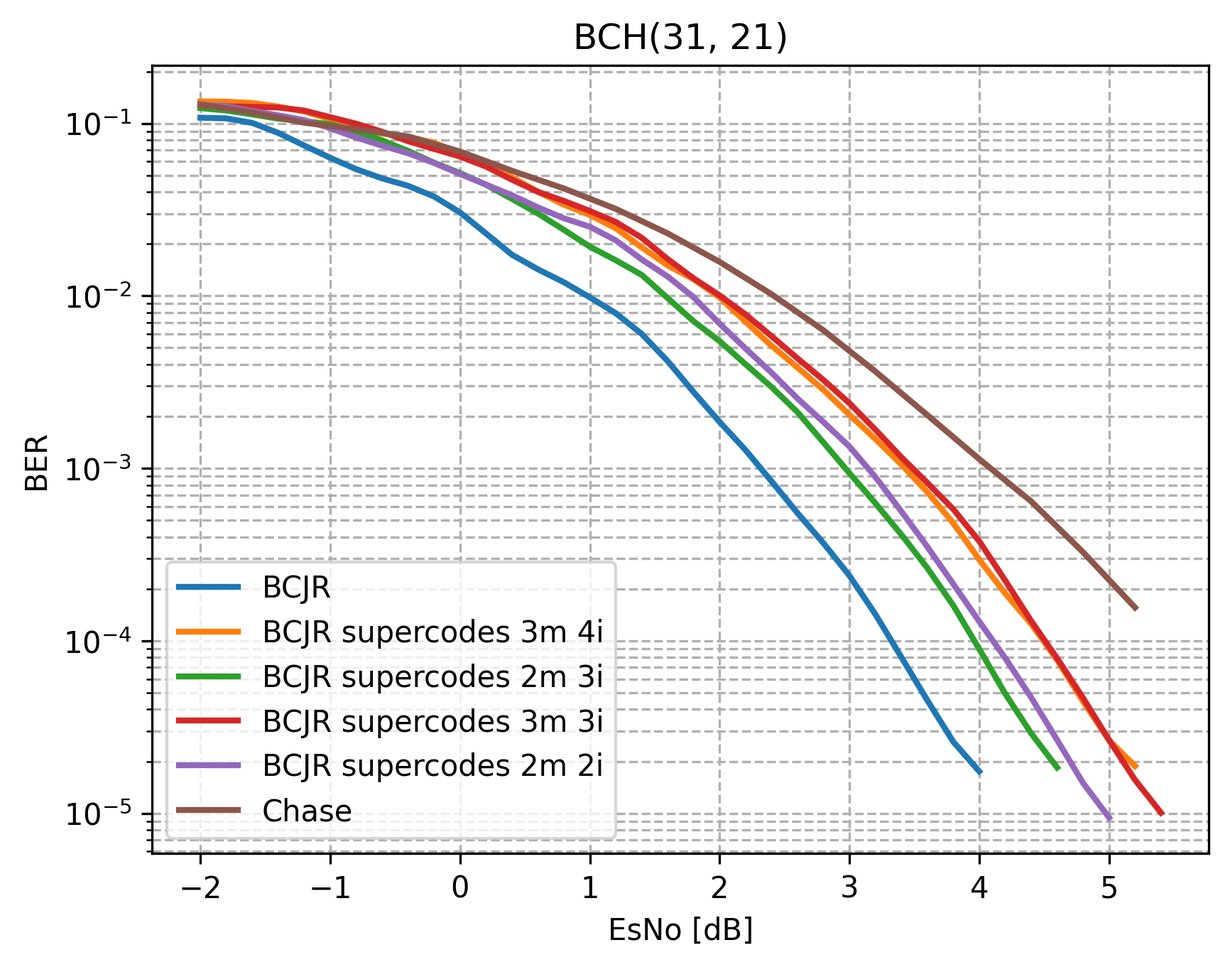
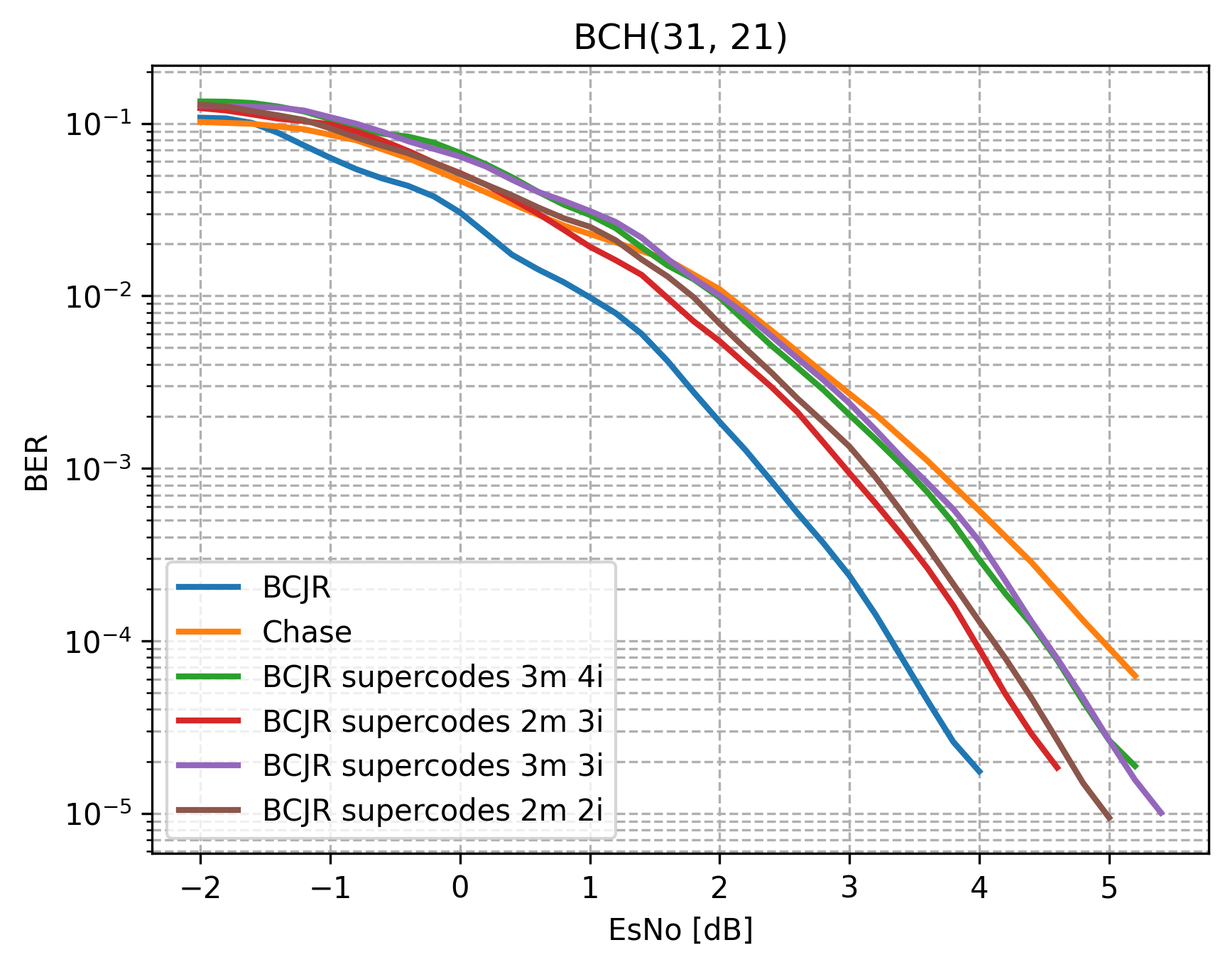
new chase

diff --git a/plot_bch_31_21_complex_compare_5_with_chase.py b/plot_bch_31_21_complex_compare_5_with_chase.py
@@ -4,45 +4,45 @@ from scipy.ndimage import gaussian_filter1d
 esno_bch_31_21 = [-10, -9.8, -9.6, -9.4, -9.2, -9.0, -8.8, -8.6, -8.4, -8.2, -8.0, -7.8, -7.6, -7.4, -7.2, -7.0, -6.8, -6.6, -6.4, -6.2, -6.0, -5.8, -5.6, -5.4, -5.2, -5.0, -4.8, -4.6, -4.4, -4.2, -4.0, -3.8, -3.6, -3.4, -3.2, -3.0, -2.8, -2.6, -2.4, -2.2, -2.0, -1.8, -1.6, -1.4, -1.2, -1.0, -0.8, -0.6, -0.4, -0.2, -0.0, 0.2, 0.4, 0.6, 0.8, 1.0, 1.2, 1.4, 1.6, 1.8, 2, 2.2, 2.4, 2.6, 2.8, 3.0, 3.2, 3.4, 3.6, 3.8, 4.0, 4.2, 4.4, ]
 fer_bch_31_21 = [1.0, 1.0, 1.0, 1.0, 1.0, 1.0, 1.0, 1.0, 1.0, 1.0, 1.0, 1.0, 1.0, 1.0, 1.0, 1.0, 1.0, 1.0, 1.0, 1.0, 1.0, 1.0, 1.0, 1.0, 1.0, 1.0, 1.0, 1.0, 1.0, 1.0, 0.9917355371900827, 0.9917355371900827, 0.9917355371900827, 1.0, 1.0, 0.967741935483871, 0.96, 0.9302325581395349, 0.967741935483871, 0.8888888888888888, 0.821917808219178, 0.7843137254901961, 0.759493670886076, 0.6703910614525139, 0.5429864253393665, 0.46511627906976744, 0.40540540540540543, 0.3418803418803419, 0.32432432432432434, 0.24048096192384769, 0.20761245674740483, 0.1362088535754824, 0.09724473257698542, 0.08836524300441827, 0.07439553626782393, 0.056100981767180924, 0.048484848484848485, 0.03293084522502744, 0.02306805074971165, 0.013211493999779809, 0.009936242444315641, 0.006948465547191662, 0.004155268534229025, 0.0028578913524970827, 0.0019907100199071004, 0.001316049220240837, 0.0006781116849945186, 0.0003866789114988641, 0.00022117817929809104, 0.00011824267732952855, 8.012023376413538e-05, 4.084423675906427e-05, 1.5633409937042026e-05,]
 ber_bch_31_21 = [0.33252688172043016, 0.33413978494623653, 0.3198924731182796, 0.3255376344086021, 0.3086021505376344, 0.3086021505376344, 0.2940860215053763, 0.3126344086021505, 0.2986559139784946, 0.2932795698924731, 0.28440860215053765, 0.28978494623655915, 0.27741935483870966, 0.27177419354838706, 0.2685483870967742, 0.2599462365591398, 0.24408602150537634, 0.26048387096774195, 0.2510752688172043, 0.25564516129032255, 0.24704301075268817, 0.23978494623655913, 0.2336021505376344, 0.2217741935483871, 0.21478494623655914, 0.21263440860215052, 0.2110215053763441, 0.214247311827957, 0.1956989247311828, 0.1814516129032258, 0.1674220207944548, 0.16662223407091442, 0.18075179952012796, 0.16586021505376344, 0.16263440860215053, 0.15634755463059313, 0.14735483870967742, 0.13378344586146537, 0.13605619146722164, 0.12879330943847073, 0.10737958462218294, 0.10963525195024246, 0.10677827684769294, 0.08650207244548568, 0.07312801050941468, 0.061640410102525627, 0.05405405405405406, 0.04438930245381858, 0.047079337401918046, 0.03684788932704118, 0.0317557763143208, 0.021786093515433345, 0.014795838343702619, 0.014751294598318209, 0.012159270443773374, 0.009018383628165105, 0.008563049853372435, 0.005692078892390496, 0.00410512085922288, 0.002319114403724789, 0.001768223789821762, 0.0012477352111623736, 0.0007271719934900792, 0.0005070452399591598, 0.00034623370507524026, 0.00022960106019793096, 0.00011794039252458429, 6.850037706391168e-05, 3.852781187773199e-05, 2.0597111534821102e-05, 1.376258854174261e-05, 6.994026563312887e-06, 2.665604459311313e-06,]
-plt.plot(esno_bch_31_21[40:71], gaussian_filter1d(fer_bch_31_21[40:71], sigma=1), label="BCJR", linewidth=2)
-# plt.plot(esno_bch_31_21[40:71], gaussian_filter1d(ber_bch_31_21[40:71], sigma=1), label="BCJR", linewidth=2)
+# plt.plot(esno_bch_31_21[40:71], gaussian_filter1d(fer_bch_31_21[40:71], sigma=1), label="BCJR", linewidth=2)
+plt.plot(esno_bch_31_21[40:71], gaussian_filter1d(ber_bch_31_21[40:71], sigma=1), label="BCJR", linewidth=2)
 
+esno_bch_31_21_chase = [-8, -7.60000000000000, -7.20000000000000, -6.80000000000000, -6.40000000000000, -6, -5.60000000000000, -5.20000000000000, -4.80000000000000, -4.40000000000000, -4, -3.60000000000000, -3.20000000000000, -2.80000000000000, -2.40000000000000, -2, -1.60000000000000, -1.20000000000000, -0.800000000000000, -0.400000000000000, 0, 0.399999999999999, 0.800000000000000, 1.20000000000000, 1.60000000000000, 2, 2.40000000000000, 2.80000000000000, 3.20000000000000, 3.60000000000000, 4, 4.40000000000000, 4.80000000000000, 5.20000000000000]
+fer_bch_31_21_chase = [1, 1, 1, 1, 1, 0.975609756097561, 0.930232558139535, 1, 0.930232558139535, 0.952380952380952, 0.909090909090909, 0.851063829787234, 0.888888888888889, 0.930232558139535, 0.740740740740741, 0.701754385964912, 0.714285714285714, 0.677966101694915, 0.588235294117647, 0.444444444444444, 0.314960629921260, 0.289855072463768, 0.183486238532110, 0.171673819742489, 0.163934426229508, 0.0902934537246050, 0.0453514739229025, 0.0295202952029520, 0.0175901495162709, 0.00801603206412826, 0.00440480123334435, 0.00255378918470280, 0.000764321473611801, 0.000363240101707229]
+ber_bch_31_21_chase = [0.281451612903226, 0.275806451612903, 0.284677419354839, 0.250806451612903, 0.273387096774194, 0.236034618410700, 0.224306076519130, 0.200806451612903, 0.219804951237809, 0.211213517665131, 0.182551319648094, 0.157172271791352, 0.156989247311828, 0.152288072018005, 0.123655913978495, 0.102433503112620, 0.102534562211982, 0.0945872061235648, 0.0839658444022770, 0.0620071684587814, 0.0426720853441707, 0.0341280972417017, 0.0221959159514649, 0.0199363145507407, 0.0185087255420413, 0.00975751838636860, 0.00490088508521688, 0.00321390310677300, 0.00184412857831872, 0.000853319542310427, 0.000454689159571029, 0.000253319411063262, 7.64321473611801e-05, 3.60310746048299e-05]
+# plt.plot(esno_bch_31_21_chase[15:], gaussian_filter1d(fer_bch_31_21_chase[15:], sigma=1), label="Chase", linewidth=2)
+plt.plot(esno_bch_31_21_chase[15:], gaussian_filter1d(ber_bch_31_21_chase[15:], sigma=1), label="Chase", linewidth=2)
 
 #-----------------------BCH(31,21) supercode----------------------------------------------------------------
 esno_bch_31_21_supercode_3_matrix_4_iter = [-10, -9.8, -9.6, -9.4, -9.2, -9.0, -8.8, -8.6, -8.4, -8.2, -8.0, -7.8, -7.6, -7.4, -7.2, -7.0, -6.8, -6.6, -6.4, -6.2, -6.0, -5.8, -5.6, -5.4, -5.2, -5.0, -4.8, -4.6, -4.4, -4.2, -4.0, -3.8, -3.6, -3.4, -3.2, -3.0, -2.8, -2.6, -2.4, -2.2, -2.0, -1.8, -1.6, -1.4, -1.2, -1.0, -0.8, -0.6, -0.4, -0.2, -0.0, 0.2, 0.4, 0.6, 0.8, 1.0, 1.2, 1.4, 1.6, 1.8, 2.0, 2.2, 2.4, 2.6, 2.8, 3.0, 3.2, 3.4, 3.6, 3.8, 4.0, 4.2, 4.4, 4.6, 4.8, 5.0, 5.2,  ]
 fer_bch_31_21_supercode_3_matrix_4_iter = [1.0, 1.0, 1.0, 1.0, 1.0, 1.0, 1.0, 1.0, 1.0, 1.0, 1.0, 1.0, 1.0, 1.0, 1.0, 1.0, 1.0, 1.0, 1.0, 1.0, 1.0, 1.0, 1.0, 1.0, 1.0, 1.0, 1.0, 1.0, 1.0, 1.0, 1.0, 1.0, 1.0, 1.0, 1.0, 1.0, 1.0, 0.9836065573770492, 0.96, 0.8571428571428571, 0.8275862068965517, 0.759493670886076, 0.7843137254901961, 0.7142857142857143, 0.7142857142857143, 0.6666666666666666, 0.5217391304347826, 0.5357142857142857, 0.5357142857142857, 0.5042016806722689, 0.4444444444444444, 0.40955631399317405, 0.3560830860534125, 0.2733485193621868, 0.2222222222222222, 0.24193548387096775, 0.192, 0.14423076923076922, 0.10909090909090909, 0.11363636363636363, 0.07537688442211055, 0.05188067444876784, 0.04302617425600574, 0.0332409972299169, 0.027353544563483018, 0.015414258188824663, 0.014072944763691803, 0.008251392422471292, 0.00693000693000693, 0.00429000429000429, 0.002230358901919967, 0.0017272897384595454, 0.0012943308309603934, 0.0006684901592677805, 0.0003840626790292176, 0.00023422449246480288, 0.000137670476395576,]
 ber_bch_31_21_supercode_3_matrix_4_iter = [0.32983870967741935, 0.31612903225806455, 0.3131720430107527, 0.31451612903225806, 0.31397849462365596, 0.31962365591397845, 0.31666666666666665, 0.2986559139784946, 0.3, 0.28655913978494624, 0.2887096774193549, 0.2887096774193549, 0.2803763440860215, 0.282258064516129, 0.25725806451612904, 0.2741935483870968, 0.24919354838709676, 0.24623655913978493, 0.24301075268817204, 0.2446236559139785, 0.7583333333333333, 0.7639784946236559, 0.7639784946236559, 0.7704301075268817, 0.7865591397849463, 0.796505376344086, 0.7876344086021505, 0.8051075268817204, 0.7946236559139785, 0.817741935483871, 0.8, 0.8172043010752688, 0.8279569892473119, 0.8301075268817204, 0.8290322580645161, 0.17204301075268816, 0.17204301075268816, 0.14569011105235324, 0.13496774193548386, 0.12027649769585254, 0.13459399332591768, 0.1322988975091874, 0.13725490196078433, 0.12211981566820276, 0.1205837173579109, 0.10949820788530466, 0.08527349228611501, 0.08640552995391705, 0.08683755760368664, 0.0801030089455137, 0.06499402628434886, 0.058901244082351645, 0.04833923614434766, 0.03931221985450804, 0.03106332138590203, 0.031087408949011446, 0.02544516129032258, 0.017951302729528537, 0.01310850439882698, 0.01386852394916911, 0.009604473982817312, 0.0063177272917451155, 0.004985021802241525, 0.0035832365293539453, 0.0029706537644212743, 0.0016781652060413948, 0.0015926639100844755, 0.0009027733107381226, 0.0007321216998636353, 0.00045552464907303616, 0.0002308301551718246, 0.0001764435754340396, 0.0001245619455601669, 6.66693142710609e-05, 3.623817213420843e-05, 2.247799564783189e-05, 1.5134380897136327e-05,]
-plt.plot(esno_bch_31_21_supercode_3_matrix_4_iter[40:], gaussian_filter1d(fer_bch_31_21_supercode_3_matrix_4_iter[40:], sigma=1), label="BCJR supercodes 3m 4i", linewidth=2)
-# plt.plot(esno_bch_31_21_supercode_3_matrix_4_iter[40:], gaussian_filter1d(ber_bch_31_21_supercode_3_matrix_4_iter[40:], sigma=1), label="BCJR supercodes 3m 4i", linewidth=2)
+# plt.plot(esno_bch_31_21_supercode_3_matrix_4_iter[40:], gaussian_filter1d(fer_bch_31_21_supercode_3_matrix_4_iter[40:], sigma=1), label="BCJR supercodes 3m 4i", linewidth=2)
+plt.plot(esno_bch_31_21_supercode_3_matrix_4_iter[40:], gaussian_filter1d(ber_bch_31_21_supercode_3_matrix_4_iter[40:], sigma=1), label="BCJR supercodes 3m 4i", linewidth=2)
 
 esno_bch_31_21_supercode_2_matrix_3_iter = [-10, -9.8, -9.6, -9.4, -9.2, -9.0, -8.8, -8.6, -8.4, -8.2, -8.0, -7.8, -7.6, -7.4, -7.2, -7.0, -6.8, -6.6, -6.4, -6.2, -6.0, -5.8, -5.6, -5.4, -5.2, -5.0, -4.8, -4.6, -4.4, -4.2, -4.0, -3.8, -3.6, -3.4, -3.2, -3.0, -2.8, -2.6, -2.4, -2.2, -2.0, -1.8, -1.6, -1.4, -1.2, -1.0, -0.8, -0.6, -0.4, -0.2, 0.0, 0.2, 0.4, 0.6, 0.8, 1.0, 1.2, 1.4, 1.6, 1.8, 2.0, 2.2, 2.4, 2.6, 2.8, 3.0, 3.2, 3.4, 3.6, 3.8, 4.0, 4.2, 4.4, 4.6, ]
 fer_bch_31_21_supercode_2_matrix_3_iter = [1.0, 1.0, 1.0, 1.0, 1.0, 1.0, 1.0, 1.0, 1.0, 1.0, 1.0, 1.0, 1.0, 1.0, 1.0, 1.0, 1.0, 1.0, 1.0, 1.0, 1.0, 1.0, 1.0, 1.0, 1.0, 1.0, 1.0, 1.0, 1.0, 1.0, 1.0, 1.0, 1.0, 1.0, 1.0, 0.975609756097561, 0.96, 0.9302325581395349, 0.8888888888888888, 0.9375, 0.821917808219178, 0.8, 0.7272727272727273, 0.6349206349206349, 0.6185567010309279, 0.6091370558375635, 0.5042016806722689, 0.45627376425855515, 0.44280442804428044, 0.32697547683923706, 0.3468208092485549, 0.3022670025188917, 0.22727272727272727, 0.20689655172413793, 0.1724137931034483, 0.13872832369942195, 0.12207527975584945, 0.11594202898550725, 0.06289308176100629, 0.060453400503778336, 0.046948356807511735, 0.03051106025934401, 0.026554547466253596, 0.017436791630340016, 0.010643959552953698, 0.008696282339299949, 0.005346878759524128, 0.003554081269991707, 0.0024694914905439057, 0.0014078723529066697, 0.0007721361790841179, 0.0003925738120552875, 0.00030450360836775913, 0.00011577549683969074,]
 ber_bch_31_21_supercode_2_matrix_3_iter = [0.6776881720430108, 0.6889784946236559, 0.6787634408602151, 0.6841397849462365, 0.6841397849462365, 0.6849462365591398, 0.6975806451612903, 0.6860215053763441, 0.6978494623655913, 0.7091397849462365, 0.7225806451612903, 0.7260752688172043, 0.7220430107526882, 0.7266129032258064, 0.7306451612903225, 0.739516129032258, 0.7540322580645161, 0.7443548387096774, 0.7537634408602151, 0.7591397849462366, 0.7647849462365592, 0.7731182795698925, 0.7634408602150538, 0.7811827956989247, 0.7838709677419354, 0.7838709677419354, 0.796236559139785, 0.7981182795698926, 0.8048387096774193, 0.8155913978494624, 0.8077956989247312, 0.814247311827957, 0.8188172043010753, 0.8362903225806452, 0.8352150537634409, 0.19223708366115919, 0.1406451612903226, 0.14453613403350837, 0.13572281959378735, 0.13482862903225806, 0.1254971277065842, 0.11784946236559139, 0.11612903225806451, 0.10087045570916539, 0.10375789823744595, 0.10528901260848207, 0.0867443751694226, 0.08070648840917453, 0.07094393524580407, 0.0542322229058627, 0.053794517993660265, 0.04436499553099862, 0.03457966764418377, 0.03081201334816463, 0.02340563589173155, 0.018124184225247062, 0.01522659403406294, 0.015645940470624904, 0.007455873402312843, 0.007052896725440806, 0.00576758039275077, 0.0033053648614289346, 0.003169413729843171, 0.0019780446419364215, 0.0012561016784265252, 0.0008743036545425217, 0.0005864318639478076, 0.0003754714890071884, 0.0002462853072558572, 0.00014608567962956303, 7.077914974937747e-05, 3.8307605853782085e-05, 2.9959225984569852e-05, 1.0853952828721006e-05, ]
-plt.plot(esno_bch_31_21_supercode_2_matrix_3_iter[40:], gaussian_filter1d(fer_bch_31_21_supercode_2_matrix_3_iter[40:], sigma=1), label="BCJR supercodes 2m 3i", linewidth=2)
-# plt.plot(esno_bch_31_21_supercode_2_matrix_3_iter[40:], gaussian_filter1d(ber_bch_31_21_supercode_2_matrix_3_iter[40:], sigma=1), label="BCJR supercodes 2m 3i", linewidth=2)
+# plt.plot(esno_bch_31_21_supercode_2_matrix_3_iter[40:], gaussian_filter1d(fer_bch_31_21_supercode_2_matrix_3_iter[40:], sigma=1), label="BCJR supercodes 2m 3i", linewidth=2)
+plt.plot(esno_bch_31_21_supercode_2_matrix_3_iter[40:], gaussian_filter1d(ber_bch_31_21_supercode_2_matrix_3_iter[40:], sigma=1), label="BCJR supercodes 2m 3i", linewidth=2)
 
 esno_bch_31_21_supercode_3_matrix_3_iter = [-10, -9.8, -9.6, -9.4, -9.2, -9.0, -8.8, -8.6, -8.4, -8.2, -8.0, -7.8, -7.6, -7.4, -7.2, -7.0, -6.8, -6.6, -6.4, -6.2, -6.0, -5.8, -5.6, -5.4, -5.2, -5.0, -4.8, -4.6, -4.4, -4.2, -4.0, -3.8, -3.6, -3.4, -3.2, -3.0, -2.8, -2.6, -2.4, -2.2, -2.0, -1.8, -1.6, -1.4, -1.2, -1.0, -0.8, -0.6, -0.4, -0.2, -0.0, 0.2, 0.4, 0.6, 0.8, 1.0, 1.2, 1.4, 1.6, 1.8, 2.0, 2.2, 2.4, 2.6, 2.8, 3.0, 3.2, 3.4, 3.6, 3.8, 4.0, 4.2, 4.4, 4.6, 4.8, 5.0, 5.2, 5.4,]
 fer_bch_31_21_supercode_3_matrix_3_iter = [1.0, 1.0, 1.0, 1.0, 1.0, 1.0, 1.0, 1.0, 1.0, 1.0, 1.0, 1.0, 1.0, 1.0, 1.0, 1.0, 1.0, 1.0, 1.0, 1.0, 1.0, 1.0, 1.0, 1.0, 1.0, 1.0, 1.0, 1.0, 1.0, 1.0, 1.0, 1.0, 1.0, 1.0, 1.0, 0.967741935483871, 0.967741935483871, 0.9375, 0.9375, 0.9302325581395349, 0.8571428571428571, 0.8, 0.8108108108108109, 0.8108108108108109, 0.7947019867549668, 0.6629834254143646, 0.6976744186046512, 0.6217616580310881, 0.4838709677419355, 0.502092050209205, 0.45454545454545453, 0.4316546762589928, 0.3468208092485549, 0.30848329048843187, 0.2926829268292683, 0.21505376344086022, 0.2376237623762376, 0.18838304552590268, 0.13029315960912052, 0.10743061772605192, 0.09302325581395349, 0.07566204287515763, 0.05042016806722689, 0.04352557127312296, 0.03487358326068003, 0.025657472738935216, 0.017513134851138354, 0.010923987255348202, 0.008900756564307966, 0.006086427267194157, 0.00422698932685195, 0.00211954217888936, 0.001405102865238926, 0.0009629968461853288, 0.0005524276895172242, 0.00033276116898998666, 0.0002166440394003293, 0.00010329931759844738,]
 ber_bch_31_21_supercode_3_matrix_3_iter = [0.6827956989247312, 0.6774193548387097, 0.6690860215053764, 0.6943548387096775, 0.692741935483871, 0.6916666666666667, 0.6870967741935484, 0.7123655913978495, 0.7172043010752688, 0.7096774193548386, 0.7048387096774194, 0.7217741935483871, 0.728494623655914, 0.7338709677419355, 0.7274193548387097, 0.7470430107526881, 0.7360215053763441, 0.7438172043010753, 0.7577956989247312, 0.7610215053763442, 0.768010752688172, 0.7661290322580645, 0.7588709677419355, 0.7709677419354839, 0.7733870967741936, 0.7844086021505376, 0.7846774193548387, 0.8048387096774193, 0.8043010752688172, 0.8163978494623656, 0.8193548387096775, 0.8225806451612903, 0.8260752688172043, 0.839516129032258, 0.8360215053763441, 0.15998959417273675, 0.15166493236212278, 0.13785282258064516, 0.13180443548387097, 0.14428607151787948, 0.1294930875576037, 0.12236559139784947, 0.12772449869224062, 0.12009590235396686, 0.13116855372783592, 0.09784352165389414, 0.10596399099774945, 0.08942002339963229, 0.07453173777315297, 0.07261438790660009, 0.06366080156402737, 0.05871431886748666, 0.04531046056311766, 0.036653122149431956, 0.03878835562549174, 0.028037923459359463, 0.029064196742254873, 0.022028662581657976, 0.014395292634233477, 0.012389176076472117, 0.01005251312828207, 0.007667900581702803, 0.005516400108430469, 0.004118548679607334, 0.00317799589391681, 0.0023312434907957263, 0.0015630002071446057, 0.0010395407226863613, 0.0008039393025826549, 0.0005595586358549468, 0.0003647482725589989, 0.00017434943729573767, 0.00011444789466865445, 7.429572442343799e-05, 3.890754157352493e-05, 2.1647366369778704e-05, 1.4792361830022483e-05, 6.613983678101958e-06,]
-plt.plot(esno_bch_31_21_supercode_3_matrix_3_iter[40:], gaussian_filter1d(fer_bch_31_21_supercode_3_matrix_3_iter[40:], sigma=1), label="BCJR supercodes 3m 3i", linewidth=2)
-# plt.plot(esno_bch_31_21_supercode_3_matrix_3_iter[40:], gaussian_filter1d(ber_bch_31_21_supercode_3_matrix_3_iter[40:], sigma=1), label="BCJR supercodes 3m 3i", linewidth=2)
+# plt.plot(esno_bch_31_21_supercode_3_matrix_3_iter[40:], gaussian_filter1d(fer_bch_31_21_supercode_3_matrix_3_iter[40:], sigma=1), label="BCJR supercodes 3m 3i", linewidth=2)
+plt.plot(esno_bch_31_21_supercode_3_matrix_3_iter[40:], gaussian_filter1d(ber_bch_31_21_supercode_3_matrix_3_iter[40:], sigma=1), label="BCJR supercodes 3m 3i", linewidth=2)
 
 esno_bch_31_21_supercode_2_matrix_2_iter = [-10, -9.8, -9.6, -9.4, -9.2, -9.0, -8.8, -8.6, -8.4, -8.2, -8.0, -7.8, -7.6, -7.4, -7.2, -7.0, -6.8, -6.6, -6.4, -6.2, -6.0, -5.8, -5.6, -5.4, -5.2, -5.0, -4.8, -4.6, -4.4, -4.2, -4.0, -3.8, -3.6, -3.4, -3.2, -3.0, -2.8, -2.6, -2.4, -2.2, -2.0, -1.8, -1.6, -1.4, -1.2, -1.0, -0.8, -0.6, -0.4, -0.2, -0.0, 0.2, 0.4, 0.6, 0.8, 1.0, 1.2, 1.4, 1.6, 1.8, 2.0, 2.2, 2.4, 2.6, 2.8, 3.0, 3.2, 3.4, 3.6, 3.8, 4.0, 4.2, 4.4, 4.6, 4.8, 5.0, ]
 fer_bch_31_21_supercode_2_matrix_2_iter = [1.0, 1.0, 1.0, 1.0, 1.0, 1.0, 1.0, 1.0, 1.0, 1.0, 1.0, 1.0, 1.0, 1.0, 1.0, 1.0, 1.0, 1.0, 1.0, 1.0, 1.0, 1.0, 1.0, 1.0, 1.0, 1.0, 1.0, 1.0, 1.0, 1.0, 1.0, 1.0, 1.0, 1.0, 1.0, 0.9917355371900827, 0.9836065573770492, 0.96, 0.9448818897637795, 0.9022556390977443, 0.8633093525179856, 0.9230769230769231, 0.7894736842105263, 0.7741935483870968, 0.7317073170731707, 0.6349206349206349, 0.5741626794258373, 0.4897959183673469, 0.4897959183673469, 0.4316546762589928, 0.375, 0.3133159268929504, 0.2857142857142857, 0.2597402597402597, 0.19138755980861244, 0.21897810218978103, 0.17543859649122806, 0.12486992715920915, 0.11417697431018078, 0.08333333333333333, 0.05862237420615535, 0.04631416441528367, 0.03428571428571429, 0.023464998044583497, 0.01882648258550361, 0.015170670037926675, 0.008913980092111128, 0.0054456344164095115, 0.0036711842628567933, 0.0023938716884774978, 0.0015356658391134088, 0.0009758398321555488, 0.0005846756511825065, 0.0003776233018752144, 0.00021499866521662011, 0.00011553227794103707,]
 ber_bch_31_21_supercode_2_matrix_2_iter = [0.6704301075268817, 0.6803763440860214, 0.6879032258064516, 0.6728494623655913, 0.6766129032258064, 0.6956989247311828, 0.6911290322580645, 0.7026881720430108, 0.7045698924731183, 0.7043010752688172, 0.7131720430107527, 0.7032258064516129, 0.728225806451613, 0.7338709677419355, 0.739516129032258, 0.746505376344086, 0.743010752688172, 0.731720430107527, 0.7545698924731182, 0.7733870967741936, 0.7551075268817204, 0.7650537634408603, 0.7639784946236559, 0.7758064516129032, 0.7776881720430108, 0.7879032258064516, 0.785752688172043, 0.7959677419354839, 0.8255376344086022, 0.7991935483870968, 0.8241935483870968, 0.8067204301075269, 0.8166666666666667, 0.8341397849462365, 0.8475806451612903, 0.20927752599306854, 0.15943945002644105, 0.14606451612903226, 0.14884429768859536, 0.134125636672326, 0.12694360640519842, 0.1347394540942928, 0.1118421052631579, 0.1105098855359001, 0.11191974822974037, 0.08943505717699266, 0.08380922981941658, 0.07044107965766952, 0.07109940750493746, 0.05732188442794152, 0.050302419354838715, 0.04354417586119767, 0.038632872503840246, 0.03260717776846809, 0.025106755157688943, 0.027784318342359313, 0.02188266364836823, 0.013191903595045483, 0.01464043460912802, 0.009296594982078852, 0.006082859259025797, 0.004818167104493221, 0.0035483870967741938, 0.0021635737444333706, 0.0018826482585503608, 0.0013172382855511603, 0.0008051336857390696, 0.0004977192746180736, 0.0003276433266850686, 0.00018018389053056435, 0.00011352368434306115, 7.554889023139734e-05, 3.803535150165768e-05, 2.3956747108212527e-05, 1.1732454042734915e-05, 6.832554071781763e-06,]
-plt.plot(esno_bch_31_21_supercode_2_matrix_2_iter[40:], gaussian_filter1d(fer_bch_31_21_supercode_2_matrix_2_iter[40:], sigma=1), label="BCJR supercodes 2m 2i", linewidth=2)
-# plt.plot(esno_bch_31_21_supercode_2_matrix_2_iter[40:], gaussian_filter1d(ber_bch_31_21_supercode_2_matrix_2_iter[40:], sigma=1), label="BCJR supercodes 2m 2i", linewidth=2)
+# plt.plot(esno_bch_31_21_supercode_2_matrix_2_iter[40:], gaussian_filter1d(fer_bch_31_21_supercode_2_matrix_2_iter[40:], sigma=1), label="BCJR supercodes 2m 2i", linewidth=2)
+plt.plot(esno_bch_31_21_supercode_2_matrix_2_iter[40:], gaussian_filter1d(ber_bch_31_21_supercode_2_matrix_2_iter[40:], sigma=1), label="BCJR supercodes 2m 2i", linewidth=2)
 
-esno_bch_31_21_chase = [-10, -9.60000000000000, -9.20000000000000, -8.80000000000000, -8.40000000000000, -8, -7.60000000000000, -7.20000000000000, -6.80000000000000, -6.40000000000000, -6, -5.60000000000000, -5.20000000000000, -4.80000000000000, -4.40000000000000, -4, -3.60000000000000, -3.20000000000000, -2.80000000000000, -2.40000000000000, -2, -1.60000000000000, -1.20000000000000, -0.800000000000000, -0.400000000000000, 0, 0.399999999999999, 0.800000000000000, 1.20000000000000, 1.60000000000000, 2, 2.40000000000000, 2.80000000000000, 3.20000000000000, 3.60000000000000, 4, 4.40000000000000, 4.80000000000000, 5.20000000000000]
-fer_bch_31_21_chase = [1, 1, 1, 1, 1, 1, 1, 1, 1, 1, 0.975609756097561, 1, 0.952380952380952, 1, 0.975609756097561, 0.930232558139535, 1, 0.888888888888889, 0.930232558139535, 0.851063829787234, 0.754716981132076, 0.655737704918033, 0.579710144927536, 0.606060606060606, 0.563380281690141, 0.476190476190476, 0.338983050847458, 0.320000000000000, 0.215053763440860, 0.165289256198347, 0.108401084010840, 0.0744878957169460, 0.0436681222707424, 0.0247678018575851, 0.0140597539543058, 0.00602591141910214, 0.00575291241190853, 0.00124797204542618, 0.000647733433031124]
-ber_bch_31_21_chase = [0.333064516129032, 0.328225806451613, 0.296774193548387, 0.303225806451613, 0.315322580645161, 0.330645161290323, 0.287096774193548, 0.285483870967742, 0.273387096774194, 0.263709677419355, 0.244689221085759, 0.258064516129032, 0.251920122887865, 0.228225806451613, 0.236821400472069, 0.190547636909227, 0.204032258064516, 0.174910394265233, 0.178544636159040, 0.155799588194921, 0.138770541692027, 0.114754098360656, 0.0944366526414212, 0.0904203323558162, 0.0945024988641527, 0.0660522273425499, 0.0478403499179880, 0.0449032258064516, 0.0294831772459244, 0.0231938149826713, 0.0142494973336830, 0.00955127049918904, 0.00581067756021975, 0.00287626086088086, 0.00191620840183684, 0.000728940897472033, 0.000765508506423312, 0.000161028651022733, 9.34666791288906e-05]
-plt.plot(esno_bch_31_21_chase[20:], gaussian_filter1d(fer_bch_31_21_chase, sigma=1)[20:], label="Chase", linewidth=2)
-# plt.plot(esno_bch_31_21_chase[20:], gaussian_filter1d(ber_bch_31_21_chase[20:], sigma=1), label="Chase", linewidth=2)
 
 plt.yscale("log")  # Логарифмическая шкала по Y
 plt.xlabel("EsNo [dB]")
-plt.ylabel("FER")
+plt.ylabel("BER")
 plt.title("BCH(31, 21)")
 plt.legend(loc='lower left')
 plt.grid(True, which="both", linestyle="--")
-plt.savefig('modeling_results/plot_bch_31_21_complex_compare_5_FER.png', dpi=300, bbox_inches='tight')
+plt.savefig('modeling_results/plot_bch_31_21_complex_compare_5_BER.png', dpi=300, bbox_inches='tight')

diff --git a/plot_bch_31_21_complex_compare_1.py b/plot_bch_31_21_complex_compare_1.py
@@ -4,36 +4,43 @@ from scipy.ndimage import gaussian_filter1d
 esno_bch_31_21 = [-10, -9.8, -9.6, -9.4, -9.2, -9.0, -8.8, -8.6, -8.4, -8.2, -8.0, -7.8, -7.6, -7.4, -7.2, -7.0, -6.8, -6.6, -6.4, -6.2, -6.0, -5.8, -5.6, -5.4, -5.2, -5.0, -4.8, -4.6, -4.4, -4.2, -4.0, -3.8, -3.6, -3.4, -3.2, -3.0, -2.8, -2.6, -2.4, -2.2, -2.0, -1.8, -1.6, -1.4, -1.2, -1.0, -0.8, -0.6, -0.4, -0.2, -0.0, 0.2, 0.4, 0.6, 0.8, 1.0, 1.2, 1.4, 1.6, 1.8, 2, 2.2, 2.4, 2.6, 2.8, 3.0, 3.2, 3.4, 3.6, 3.8, 4.0, 4.2, 4.4, ]
 fer_bch_31_21 = [1.0, 1.0, 1.0, 1.0, 1.0, 1.0, 1.0, 1.0, 1.0, 1.0, 1.0, 1.0, 1.0, 1.0, 1.0, 1.0, 1.0, 1.0, 1.0, 1.0, 1.0, 1.0, 1.0, 1.0, 1.0, 1.0, 1.0, 1.0, 1.0, 1.0, 0.9917355371900827, 0.9917355371900827, 0.9917355371900827, 1.0, 1.0, 0.967741935483871, 0.96, 0.9302325581395349, 0.967741935483871, 0.8888888888888888, 0.821917808219178, 0.7843137254901961, 0.759493670886076, 0.6703910614525139, 0.5429864253393665, 0.46511627906976744, 0.40540540540540543, 0.3418803418803419, 0.32432432432432434, 0.24048096192384769, 0.20761245674740483, 0.1362088535754824, 0.09724473257698542, 0.08836524300441827, 0.07439553626782393, 0.056100981767180924, 0.048484848484848485, 0.03293084522502744, 0.02306805074971165, 0.013211493999779809, 0.009936242444315641, 0.006948465547191662, 0.004155268534229025, 0.0028578913524970827, 0.0019907100199071004, 0.001316049220240837, 0.0006781116849945186, 0.0003866789114988641, 0.00022117817929809104, 0.00011824267732952855, 8.012023376413538e-05, 4.084423675906427e-05, 1.5633409937042026e-05,]
 ber_bch_31_21 = [0.33252688172043016, 0.33413978494623653, 0.3198924731182796, 0.3255376344086021, 0.3086021505376344, 0.3086021505376344, 0.2940860215053763, 0.3126344086021505, 0.2986559139784946, 0.2932795698924731, 0.28440860215053765, 0.28978494623655915, 0.27741935483870966, 0.27177419354838706, 0.2685483870967742, 0.2599462365591398, 0.24408602150537634, 0.26048387096774195, 0.2510752688172043, 0.25564516129032255, 0.24704301075268817, 0.23978494623655913, 0.2336021505376344, 0.2217741935483871, 0.21478494623655914, 0.21263440860215052, 0.2110215053763441, 0.214247311827957, 0.1956989247311828, 0.1814516129032258, 0.1674220207944548, 0.16662223407091442, 0.18075179952012796, 0.16586021505376344, 0.16263440860215053, 0.15634755463059313, 0.14735483870967742, 0.13378344586146537, 0.13605619146722164, 0.12879330943847073, 0.10737958462218294, 0.10963525195024246, 0.10677827684769294, 0.08650207244548568, 0.07312801050941468, 0.061640410102525627, 0.05405405405405406, 0.04438930245381858, 0.047079337401918046, 0.03684788932704118, 0.0317557763143208, 0.021786093515433345, 0.014795838343702619, 0.014751294598318209, 0.012159270443773374, 0.009018383628165105, 0.008563049853372435, 0.005692078892390496, 0.00410512085922288, 0.002319114403724789, 0.001768223789821762, 0.0012477352111623736, 0.0007271719934900792, 0.0005070452399591598, 0.00034623370507524026, 0.00022960106019793096, 0.00011794039252458429, 6.850037706391168e-05, 3.852781187773199e-05, 2.0597111534821102e-05, 1.376258854174261e-05, 6.994026563312887e-06, 2.665604459311313e-06,]
-# plt.plot(esno_bch_31_21[40:71], gaussian_filter1d(fer_bch_31_21[40:71], sigma=1), label="BCJR", linewidth=2)
-plt.plot(esno_bch_31_21[40:71], gaussian_filter1d(ber_bch_31_21[40:71], sigma=1), label="BCJR", linewidth=2)
+plt.plot(esno_bch_31_21[40:71], gaussian_filter1d(fer_bch_31_21[40:71], sigma=1), label="BCJR", linewidth=2)
+# plt.plot(esno_bch_31_21[40:71], gaussian_filter1d(ber_bch_31_21[40:71], sigma=1), label="BCJR", linewidth=2)
 
+esno_bch_31_21_chase = [-8, -7.60000000000000, -7.20000000000000, -6.80000000000000, -6.40000000000000, -6, -5.60000000000000, -5.20000000000000, -4.80000000000000, -4.40000000000000, -4, -3.60000000000000, -3.20000000000000, -2.80000000000000, -2.40000000000000, -2, -1.60000000000000, -1.20000000000000, -0.800000000000000, -0.400000000000000, 0, 0.399999999999999, 0.800000000000000, 1.20000000000000, 1.60000000000000, 2, 2.40000000000000, 2.80000000000000, 3.20000000000000, 3.60000000000000, 4, 4.40000000000000, 4.80000000000000, 5.20000000000000]
+fer_bch_31_21_chase = [1, 1, 1, 1, 1, 0.975609756097561, 0.930232558139535, 1, 0.930232558139535, 0.952380952380952, 0.909090909090909, 0.851063829787234, 0.888888888888889, 0.930232558139535, 0.740740740740741, 0.701754385964912, 0.714285714285714, 0.677966101694915, 0.588235294117647, 0.444444444444444, 0.314960629921260, 0.289855072463768, 0.183486238532110, 0.171673819742489, 0.163934426229508, 0.0902934537246050, 0.0453514739229025, 0.0295202952029520, 0.0175901495162709, 0.00801603206412826, 0.00440480123334435, 0.00255378918470280, 0.000764321473611801, 0.000363240101707229]
+ber_bch_31_21_chase = [0.281451612903226, 0.275806451612903, 0.284677419354839, 0.250806451612903, 0.273387096774194, 0.236034618410700, 0.224306076519130, 0.200806451612903, 0.219804951237809, 0.211213517665131, 0.182551319648094, 0.157172271791352, 0.156989247311828, 0.152288072018005, 0.123655913978495, 0.102433503112620, 0.102534562211982, 0.0945872061235648, 0.0839658444022770, 0.0620071684587814, 0.0426720853441707, 0.0341280972417017, 0.0221959159514649, 0.0199363145507407, 0.0185087255420413, 0.00975751838636860, 0.00490088508521688, 0.00321390310677300, 0.00184412857831872, 0.000853319542310427, 0.000454689159571029, 0.000253319411063262, 7.64321473611801e-05, 3.60310746048299e-05]
+plt.plot(esno_bch_31_21_chase[15:], gaussian_filter1d(fer_bch_31_21_chase[15:], sigma=1), label="Chase", linewidth=2)
+# plt.plot(esno_bch_31_21_chase[40:], gaussian_filter1d(ber_bch_31_21_chase[40:], sigma=1), label="Chase", linewidth=2)
 
 #-----------------------BCH(31,21) supercode----------------------------------------------------------------
 esno_bch_31_21_supercode_2_matrix_1_iter = [-10, -9.8, -9.6, -9.4, -9.2, -9.0, -8.8, -8.6, -8.4, -8.2, -8.0, -7.8, -7.6, -7.4, -7.2, -7.0, -6.8, -6.6, -6.4, -6.2, -6.0, -5.8, -5.6, -5.4, -5.2, -5.0, -4.8, -4.6, -4.4, -4.2, -4.0, -3.8, -3.6, -3.4, -3.2, -3.0, -2.8, -2.6, -2.4, -2.2, -2.0, -1.8, -1.6, -1.4, -1.2, -1.0, -0.8, -0.6, -0.4, -0.2, -0.0, 0.2, 0.4, 0.6, 0.8, 1.0, 1.2, 1.4, 1.6, 1.8, 2.0, 2.2, 2.4, 2.6, 2.8, 3.0, 3.2, 3.4, 3.6, 3.8, 4.0, 4.2, 4.4, 4.6, 4.8, 5.0, 5.2, 5.4, 5.6, 5.8, 6.0, 6.2, 6.4, 6.6, 6.8]
 fer_bch_31_21_supercode_2_matrix_1_iter = [1.0, 1.0, 1.0, 1.0, 1.0, 1.0, 1.0, 1.0, 1.0, 1.0, 1.0, 1.0, 1.0, 1.0, 1.0, 1.0, 1.0, 1.0, 1.0, 1.0, 1.0, 1.0, 1.0, 1.0, 1.0, 1.0, 1.0, 1.0, 1.0, 1.0, 1.0, 1.0, 1.0, 1.0, 1.0, 0.975609756097561, 0.967741935483871, 0.9836065573770492, 0.9836065573770492, 0.96, 0.9523809523809523, 0.8888888888888888, 0.8759124087591241, 0.8955223880597015, 0.8, 0.7792207792207793, 0.7643312101910829, 0.75, 0.7017543859649122, 0.6779661016949152, 0.5309734513274337, 0.5286343612334802, 0.5063291139240507, 0.45112781954887216, 0.3870967741935484, 0.33240997229916897, 0.2977667493796526, 0.23255813953488372, 0.2185792349726776, 0.19639934533551553, 0.192, 0.1343784994400896, 0.10752688172043011, 0.09036144578313253, 0.065323897659227, 0.05946481665014866, 0.044626255113425065, 0.03560830860534125, 0.021197668256491786, 0.016183412002697236, 0.012918505759500484, 0.009155413138017853, 0.006532034184312231, 0.004884800130261337, 0.0032344141667340503, 0.0026467863602276237, 0.0018270401948842874, 0.001219884111009454, 0.0007881411035289018, 0.0005001396223112285, 0.00036158409994184524, 0.00018627205965673164, 0.0001691160305085319, 8.469677495855152e-05,5.736047065513139e-05, ]
 ber_bch_31_21_supercode_2_matrix_1_iter = [0.6666666666666666, 0.6717741935483871, 0.6900537634408602, 0.6706989247311828, 0.6889784946236559, 0.7, 0.693010752688172, 0.707258064516129, 0.703763440860215, 0.7040322580645161, 0.7126344086021505, 0.7196236559139785, 0.7126344086021505, 0.7295698924731183, 0.7182795698924731, 0.7365591397849462, 0.7454301075268818, 0.7330645161290322, 0.7440860215053764, 0.7634408602150538, 0.7591397849462366, 0.7591397849462366, 0.7669354838709678, 0.771505376344086, 0.7774193548387097, 0.7908602150537635, 0.7943548387096775, 0.789516129032258, 0.7978494623655913, 0.8048387096774193, 0.8040322580645162, 0.8169354838709677, 0.831989247311828, 0.831989247311828, 0.8422043010752688, 0.20744820351429322, 0.14698231009365245, 0.1404019037546272, 0.14436805922792173, 0.1272258064516129, 0.12314388120839734, 0.11445639187574672, 0.10736990817047327, 0.09918151179585942, 0.09913978494623656, 0.09049015500628405, 0.09245942058763099, 0.08084677419354838, 0.07696661007357103, 0.06506287588846364, 0.05081358835284042, 0.05186869404575813, 0.04450796243364639, 0.04098957070094591, 0.03246618106139438, 0.027879546063801268, 0.026014568158168577, 0.01825456364091023, 0.01621716904635995, 0.015521883744258488, 0.0144, 0.007622006285445942, 0.0066770724939299335, 0.005878352118150019, 0.004091523697473089, 0.0036606029604527, 0.0026271908252258305, 0.00178998755623624, 0.0009972021357220599, 0.0007482652861462163, 0.0005938345389447804, 0.00040362574049326015, 0.0002791917836843131, 0.00021666452190675283, 0.00012520312903486648, 0.00010530225304131406, 6.532159836548662e-05, 4.295828455436518e-05, 2.6906967781766272e-05, 1.7477997553887017e-05, 1.2052803331394841e-05, 6.108922386591737e-06, 5.591739718427264e-06, 2.800457881694042e-06, 1.9307872310282657e-06,]
-# plt.plot(esno_bch_31_21_supercode_2_matrix_1_iter[40:84], gaussian_filter1d(fer_bch_31_21_supercode_2_matrix_1_iter[40:84], sigma=1), label="BCJR supercodes 2m 1i", linewidth=2)
-plt.plot(esno_bch_31_21_supercode_2_matrix_1_iter[40:84], gaussian_filter1d(ber_bch_31_21_supercode_2_matrix_1_iter[40:84], sigma=1), label="BCJR supercodes 2m 1i", linewidth=2)
+plt.plot(esno_bch_31_21_supercode_2_matrix_1_iter[40:84], gaussian_filter1d(fer_bch_31_21_supercode_2_matrix_1_iter[40:84], sigma=1), label="BCJR supercodes 2m 1i", linewidth=2)
+# plt.plot(esno_bch_31_21_supercode_2_matrix_1_iter[40:84], gaussian_filter1d(ber_bch_31_21_supercode_2_matrix_1_iter[40:84], sigma=1), label="BCJR supercodes 2m 1i", linewidth=2)
 
 
 esno_bch_31_21_supercode_2_matrix_2_iter = [-10, -9.8, -9.6, -9.4, -9.2, -9.0, -8.8, -8.6, -8.4, -8.2, -8.0, -7.8, -7.6, -7.4, -7.2, -7.0, -6.8, -6.6, -6.4, -6.2, -6.0, -5.8, -5.6, -5.4, -5.2, -5.0, -4.8, -4.6, -4.4, -4.2, -4.0, -3.8, -3.6, -3.4, -3.2, -3.0, -2.8, -2.6, -2.4, -2.2, -2.0, -1.8, -1.6, -1.4, -1.2, -1.0, -0.8, -0.6, -0.4, -0.2, -0.0, 0.2, 0.4, 0.6, 0.8, 1.0, 1.2, 1.4, 1.6, 1.8, 2.0, 2.2, 2.4, 2.6, 2.8, 3.0, 3.2, 3.4, 3.6, 3.8, 4.0, 4.2, 4.4, 4.6, 4.8, 5.0, ]
 fer_bch_31_21_supercode_2_matrix_2_iter = [1.0, 1.0, 1.0, 1.0, 1.0, 1.0, 1.0, 1.0, 1.0, 1.0, 1.0, 1.0, 1.0, 1.0, 1.0, 1.0, 1.0, 1.0, 1.0, 1.0, 1.0, 1.0, 1.0, 1.0, 1.0, 1.0, 1.0, 1.0, 1.0, 1.0, 1.0, 1.0, 1.0, 1.0, 1.0, 0.9917355371900827, 0.9836065573770492, 0.96, 0.9448818897637795, 0.9022556390977443, 0.8633093525179856, 0.9230769230769231, 0.7894736842105263, 0.7741935483870968, 0.7317073170731707, 0.6349206349206349, 0.5741626794258373, 0.4897959183673469, 0.4897959183673469, 0.4316546762589928, 0.375, 0.3133159268929504, 0.2857142857142857, 0.2597402597402597, 0.19138755980861244, 0.21897810218978103, 0.17543859649122806, 0.12486992715920915, 0.11417697431018078, 0.08333333333333333, 0.05862237420615535, 0.04631416441528367, 0.03428571428571429, 0.023464998044583497, 0.01882648258550361, 0.015170670037926675, 0.008913980092111128, 0.0054456344164095115, 0.0036711842628567933, 0.0023938716884774978, 0.0015356658391134088, 0.0009758398321555488, 0.0005846756511825065, 0.0003776233018752144, 0.00021499866521662011, 0.00011553227794103707,]
 ber_bch_31_21_supercode_2_matrix_2_iter = [0.6704301075268817, 0.6803763440860214, 0.6879032258064516, 0.6728494623655913, 0.6766129032258064, 0.6956989247311828, 0.6911290322580645, 0.7026881720430108, 0.7045698924731183, 0.7043010752688172, 0.7131720430107527, 0.7032258064516129, 0.728225806451613, 0.7338709677419355, 0.739516129032258, 0.746505376344086, 0.743010752688172, 0.731720430107527, 0.7545698924731182, 0.7733870967741936, 0.7551075268817204, 0.7650537634408603, 0.7639784946236559, 0.7758064516129032, 0.7776881720430108, 0.7879032258064516, 0.785752688172043, 0.7959677419354839, 0.8255376344086022, 0.7991935483870968, 0.8241935483870968, 0.8067204301075269, 0.8166666666666667, 0.8341397849462365, 0.8475806451612903, 0.20927752599306854, 0.15943945002644105, 0.14606451612903226, 0.14884429768859536, 0.134125636672326, 0.12694360640519842, 0.1347394540942928, 0.1118421052631579, 0.1105098855359001, 0.11191974822974037, 0.08943505717699266, 0.08380922981941658, 0.07044107965766952, 0.07109940750493746, 0.05732188442794152, 0.050302419354838715, 0.04354417586119767, 0.038632872503840246, 0.03260717776846809, 0.025106755157688943, 0.027784318342359313, 0.02188266364836823, 0.013191903595045483, 0.01464043460912802, 0.009296594982078852, 0.006082859259025797, 0.004818167104493221, 0.0035483870967741938, 0.0021635737444333706, 0.0018826482585503608, 0.0013172382855511603, 0.0008051336857390696, 0.0004977192746180736, 0.0003276433266850686, 0.00018018389053056435, 0.00011352368434306115, 7.554889023139734e-05, 3.803535150165768e-05, 2.3956747108212527e-05, 1.1732454042734915e-05, 6.832554071781763e-06,]
-# plt.plot(esno_bch_31_21_supercode_2_matrix_2_iter[40:], gaussian_filter1d(fer_bch_31_21_supercode_2_matrix_2_iter[40:], sigma=1), label="BCJR supercodes 2m 2i", linewidth=2)
-plt.plot(esno_bch_31_21_supercode_2_matrix_2_iter[40:], gaussian_filter1d(ber_bch_31_21_supercode_2_matrix_2_iter[40:], sigma=1), label="BCJR supercodes 2m 2i", linewidth=2)
+plt.plot(esno_bch_31_21_supercode_2_matrix_2_iter[40:], gaussian_filter1d(fer_bch_31_21_supercode_2_matrix_2_iter[40:], sigma=1), label="BCJR supercodes 2m 2i", linewidth=2)
+# plt.plot(esno_bch_31_21_supercode_2_matrix_2_iter[40:], gaussian_filter1d(ber_bch_31_21_supercode_2_matrix_2_iter[40:], sigma=1), label="BCJR supercodes 2m 2i", linewidth=2)
 
 
 esno_bch_31_21_supercode_2_matrix_3_iter = [-10, -9.8, -9.6, -9.4, -9.2, -9.0, -8.8, -8.6, -8.4, -8.2, -8.0, -7.8, -7.6, -7.4, -7.2, -7.0, -6.8, -6.6, -6.4, -6.2, -6.0, -5.8, -5.6, -5.4, -5.2, -5.0, -4.8, -4.6, -4.4, -4.2, -4.0, -3.8, -3.6, -3.4, -3.2, -3.0, -2.8, -2.6, -2.4, -2.2, -2.0, -1.8, -1.6, -1.4, -1.2, -1.0, -0.8, -0.6, -0.4, -0.2, 0.0, 0.2, 0.4, 0.6, 0.8, 1.0, 1.2, 1.4, 1.6, 1.8, 2.0, 2.2, 2.4, 2.6, 2.8, 3.0, 3.2, 3.4, 3.6, 3.8, 4.0, 4.2, 4.4, 4.6, ]
 fer_bch_31_21_supercode_2_matrix_3_iter = [1.0, 1.0, 1.0, 1.0, 1.0, 1.0, 1.0, 1.0, 1.0, 1.0, 1.0, 1.0, 1.0, 1.0, 1.0, 1.0, 1.0, 1.0, 1.0, 1.0, 1.0, 1.0, 1.0, 1.0, 1.0, 1.0, 1.0, 1.0, 1.0, 1.0, 1.0, 1.0, 1.0, 1.0, 1.0, 0.975609756097561, 0.96, 0.9302325581395349, 0.8888888888888888, 0.9375, 0.821917808219178, 0.8, 0.7272727272727273, 0.6349206349206349, 0.6185567010309279, 0.6091370558375635, 0.5042016806722689, 0.45627376425855515, 0.44280442804428044, 0.32697547683923706, 0.3468208092485549, 0.3022670025188917, 0.22727272727272727, 0.20689655172413793, 0.1724137931034483, 0.13872832369942195, 0.12207527975584945, 0.11594202898550725, 0.06289308176100629, 0.060453400503778336, 0.046948356807511735, 0.03051106025934401, 0.026554547466253596, 0.017436791630340016, 0.010643959552953698, 0.008696282339299949, 0.005346878759524128, 0.003554081269991707, 0.0024694914905439057, 0.0014078723529066697, 0.0007721361790841179, 0.0003925738120552875, 0.00030450360836775913, 0.00011577549683969074,]
 ber_bch_31_21_supercode_2_matrix_3_iter = [0.6776881720430108, 0.6889784946236559, 0.6787634408602151, 0.6841397849462365, 0.6841397849462365, 0.6849462365591398, 0.6975806451612903, 0.6860215053763441, 0.6978494623655913, 0.7091397849462365, 0.7225806451612903, 0.7260752688172043, 0.7220430107526882, 0.7266129032258064, 0.7306451612903225, 0.739516129032258, 0.7540322580645161, 0.7443548387096774, 0.7537634408602151, 0.7591397849462366, 0.7647849462365592, 0.7731182795698925, 0.7634408602150538, 0.7811827956989247, 0.7838709677419354, 0.7838709677419354, 0.796236559139785, 0.7981182795698926, 0.8048387096774193, 0.8155913978494624, 0.8077956989247312, 0.814247311827957, 0.8188172043010753, 0.8362903225806452, 0.8352150537634409, 0.19223708366115919, 0.1406451612903226, 0.14453613403350837, 0.13572281959378735, 0.13482862903225806, 0.1254971277065842, 0.11784946236559139, 0.11612903225806451, 0.10087045570916539, 0.10375789823744595, 0.10528901260848207, 0.0867443751694226, 0.08070648840917453, 0.07094393524580407, 0.0542322229058627, 0.053794517993660265, 0.04436499553099862, 0.03457966764418377, 0.03081201334816463, 0.02340563589173155, 0.018124184225247062, 0.01522659403406294, 0.015645940470624904, 0.007455873402312843, 0.007052896725440806, 0.00576758039275077, 0.0033053648614289346, 0.003169413729843171, 0.0019780446419364215, 0.0012561016784265252, 0.0008743036545425217, 0.0005864318639478076, 0.0003754714890071884, 0.0002462853072558572, 0.00014608567962956303, 7.077914974937747e-05, 3.8307605853782085e-05, 2.9959225984569852e-05, 1.0853952828721006e-05, ]
-# plt.plot(esno_bch_31_21_supercode_2_matrix_3_iter[40:], gaussian_filter1d(fer_bch_31_21_supercode_2_matrix_3_iter[40:], sigma=1), label="BCJR supercodes 2m 3i", linewidth=2)
-plt.plot(esno_bch_31_21_supercode_2_matrix_3_iter[40:], gaussian_filter1d(ber_bch_31_21_supercode_2_matrix_3_iter[40:], sigma=1), label="BCJR supercodes 2m 3i", linewidth=2)
+plt.plot(esno_bch_31_21_supercode_2_matrix_3_iter[40:], gaussian_filter1d(fer_bch_31_21_supercode_2_matrix_3_iter[40:], sigma=1), label="BCJR supercodes 2m 3i", linewidth=2)
+# plt.plot(esno_bch_31_21_supercode_2_matrix_3_iter[40:], gaussian_filter1d(ber_bch_31_21_supercode_2_matrix_3_iter[40:], sigma=1), label="BCJR supercodes 2m 3i", linewidth=2)
+
+
 
 
 plt.yscale("log")  # Логарифмическая шкала по Y
 plt.xlabel("EsNo [dB]")
-plt.ylabel("BER")
+plt.ylabel("FER")
 plt.title("BCH(31, 21)")
 plt.legend(loc='lower left')
 plt.grid(True, which="both", linestyle="--")
-plt.savefig('modeling_results/plot_bch_31_21_complex_compare_1_BER.png', dpi=300, bbox_inches='tight')
+plt.savefig('modeling_results/plot_bch_31_21_complex_compare_1_FER_with_chase.png', dpi=300, bbox_inches='tight')

diff --git a/plot_bch_31_21_complex_compare_2.py b/plot_bch_31_21_complex_compare_2.py
@@ -7,6 +7,11 @@ ber_bch_31_21 = [0.33252688172043016, 0.33413978494623653, 0.3198924731182796, 0
 plt.plot(esno_bch_31_21[40:71], gaussian_filter1d(fer_bch_31_21[40:71], sigma=1), label="BCJR", linewidth=2)
 # plt.plot(esno_bch_31_21[40:71], gaussian_filter1d(ber_bch_31_21[40:71], sigma=1), label="BCJR", linewidth=2)
 
+esno_bch_31_21_chase = [-8, -7.60000000000000, -7.20000000000000, -6.80000000000000, -6.40000000000000, -6, -5.60000000000000, -5.20000000000000, -4.80000000000000, -4.40000000000000, -4, -3.60000000000000, -3.20000000000000, -2.80000000000000, -2.40000000000000, -2, -1.60000000000000, -1.20000000000000, -0.800000000000000, -0.400000000000000, 0, 0.399999999999999, 0.800000000000000, 1.20000000000000, 1.60000000000000, 2, 2.40000000000000, 2.80000000000000, 3.20000000000000, 3.60000000000000, 4, 4.40000000000000, 4.80000000000000, 5.20000000000000]
+fer_bch_31_21_chase = [1, 1, 1, 1, 1, 0.975609756097561, 0.930232558139535, 1, 0.930232558139535, 0.952380952380952, 0.909090909090909, 0.851063829787234, 0.888888888888889, 0.930232558139535, 0.740740740740741, 0.701754385964912, 0.714285714285714, 0.677966101694915, 0.588235294117647, 0.444444444444444, 0.314960629921260, 0.289855072463768, 0.183486238532110, 0.171673819742489, 0.163934426229508, 0.0902934537246050, 0.0453514739229025, 0.0295202952029520, 0.0175901495162709, 0.00801603206412826, 0.00440480123334435, 0.00255378918470280, 0.000764321473611801, 0.000363240101707229]
+ber_bch_31_21_chase = [0.281451612903226, 0.275806451612903, 0.284677419354839, 0.250806451612903, 0.273387096774194, 0.236034618410700, 0.224306076519130, 0.200806451612903, 0.219804951237809, 0.211213517665131, 0.182551319648094, 0.157172271791352, 0.156989247311828, 0.152288072018005, 0.123655913978495, 0.102433503112620, 0.102534562211982, 0.0945872061235648, 0.0839658444022770, 0.0620071684587814, 0.0426720853441707, 0.0341280972417017, 0.0221959159514649, 0.0199363145507407, 0.0185087255420413, 0.00975751838636860, 0.00490088508521688, 0.00321390310677300, 0.00184412857831872, 0.000853319542310427, 0.000454689159571029, 0.000253319411063262, 7.64321473611801e-05, 3.60310746048299e-05]
+plt.plot(esno_bch_31_21_chase[15:], gaussian_filter1d(fer_bch_31_21_chase[15:], sigma=1), label="Chase", linewidth=2)
+# plt.plot(esno_bch_31_21_chase[40:], gaussian_filter1d(ber_bch_31_21_chase[40:], sigma=1), label="Chase", linewidth=2)
 
 #-----------------------BCH(31,21) supercode----------------------------------------------------------------
 
@@ -46,4 +51,4 @@ plt.ylabel("FER")
 plt.title("BCH(31, 21)")
 plt.legend(loc='lower left')
 plt.grid(True, which="both", linestyle="--")
-plt.savefig('modeling_results/plot_bch_31_21_complex_compare_2_FER.png', dpi=300, bbox_inches='tight')
+plt.savefig('modeling_results/plot_bch_31_21_complex_compare_2_FER_with_chase.png', dpi=300, bbox_inches='tight')
